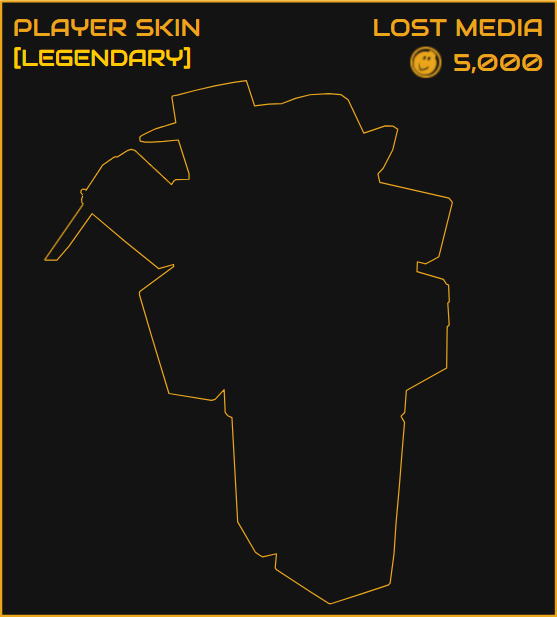
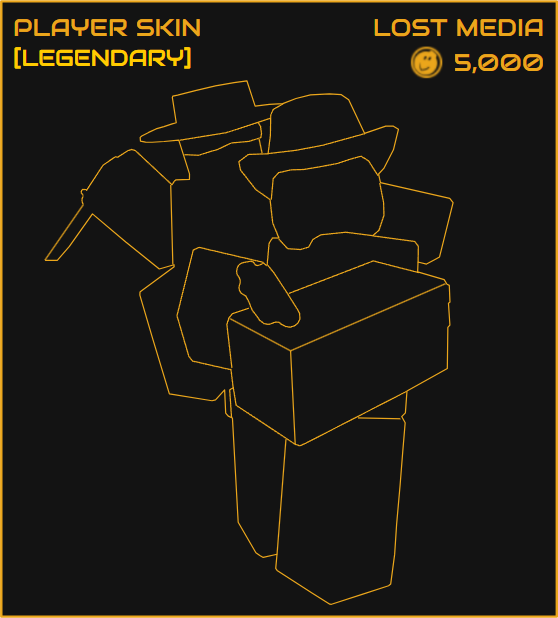
Added stats section
Fixed old bug: Incorrect placeholder shown in shop.js. Added fakePlayerData.json. Updated Lost Media Skin

diff --git a/assets/css/global.css b/assets/css/global.css
@@ -490,6 +490,8 @@ a {
   border: 1px solid #eba61b;
   /* margin: 10px; */
   padding: 10px;
+  width: 250px;
+  height: 100%;
 }
 .uc-avatar {
   border: 1px solid #eba61b;
@@ -535,7 +537,7 @@ a {
 }
 .uc-skin {
   border: 1px solid #eba61b;
-  width: 170px;
+  width: 212px;
   height: 100%;
   margin-top: 5px;
   display: flex;
@@ -549,9 +551,73 @@ a {
 }
 .stats {
   font-family: audiowide, monospace;
-  font-size: 20px;
   border: 1px solid #eba61b;
-  width: 900px;      /* adjust to whatever fits your stat rows */
-  height: 520px;     /* tall enough to hold wins/losses/kills/etc. */
+  width: 700px;
+  padding: 15px;
+  color: #eba61b;
+}
+.stats-header h3 {
+  margin: 0 0 15px 0;
+}
+.stats-top {
+  display: flex;
+  justify-content: flex-end;
+  margin-bottom: 20px;
+}
+.name-entry {
+  display: flex;
+  flex-direction: column;
+  align-items: flex-end;
+  gap: 6px;
+  width: 220px;
+}
+.name-entry label {
+  font-size: 14px;
+}
+.name-entry input {
+  background: transparent;
+  border: 1px solid #eba61b;
+  color: #eba61b;
+  text-align: center;
+  padding: 6px;
+  font-family: inherit;
+  width: 100%;
+}
+.lv-xp {
+  display: flex;
+  align-items: center;
+  gap: 8px;
+  font-size: 12px;
+  width: 100%;
+}
+.xp-bar {
+  flex: 1;
+  height: 6px;
+  background: #333;
+  border: 1px solid #eba61b;
+}
+.xp-fill {
+  height: 100%;
+  background: #eba61b;
+  width: 0%; 
+}
+.stats-grid {
+  display: grid;
+  grid-template-columns: repeat(3, 1fr);
+  gap: 8px;
+  margin-bottom: 10px;
+}
+.stat-box {
+  background: #1e1e1e;
   padding: 10px;
+  display: flex;
+  justify-content: space-between;
+}
+.stat-box.loss span:first-child {
+  color: #e05a5a;
+}
+.stats-divider {
+  border: none;
+  border-top: 1px solid #eba61b;
+  margin: 12px 0;
 }

diff --git a/playerTracker.html b/playerTracker.html
@@ -40,7 +40,64 @@
   </header>
     <div class="tracker-container">
         <div class="stats">
-        </div>
+          <div class="stats-header">
+              <h3>&gt; STATS</h3>
+          </div>
+
+          <div class="stats-top">
+              <div class="name-entry">
+                  <label for="player-name-input">ENTER PLAYER NAME:</label>
+                  <input type="text" id="player-name-input" placeholder="---">
+                  <div class="lv-xp">
+                      <span>LV.</span>
+                      <div class="xp-bar"><div class="xp-fill" id="xp-fill"></div></div>
+                      <span>XP <span id="xp-current"></span>/<span id="xp-max"></span></span>
+                  </div>
+              </div>
+          </div>
+
+          <div class="stats-grid">
+              <div class="stat-box"><span>WINS:</span> <span id="stat-wins"></span></div>
+              <div class="stat-box loss"><span>LOSSES:</span> <span id="stat-losses"></span></div>
+              <div class="stat-box"><span>W/L:</span> <span id="stat-wl"></span></div>
+
+              <div class="stat-box"><span>KILLS:</span> <span id="stat-kills"></span></div>
+              <div class="stat-box loss"><span>DEATHS:</span> <span id="stat-deaths"></span></div>
+              <div class="stat-box"><span>K/D:</span> <span id="stat-kd"></span></div>
+          </div>
+
+          <hr class="stats-divider">
+
+          <div class="stats-grid">
+              <div class="stat-box"><span>ASSISTS:</span> <span id="stat-assists"></span></div>
+              <div class="stat-box"><span>HEADSHOTS:</span> <span id="stat-headshots"></span></div>
+              <div class="stat-box"><span>LONGSHOTS:</span> <span id="stat-longshots"></span></div>
+
+              <div class="stat-box"><span>WALLBANGS:</span> <span id="stat-wallbangs"></span></div>
+              <div class="stat-box"><span>COLLATERALS:</span> <span id="stat-collaterals"></span></div>
+              <div class="stat-box"><span>DAMAGE:</span> <span id="stat-damage"></span></div>
+          </div>
+
+          <hr class="stats-divider">
+
+          <div class="stats-grid">
+              <div class="stat-box"><span>DOMINATIONS:</span> <span id="stat-dominations"></span></div>
+              <div class="stat-box"><span>REVENGES:</span> <span id="stat-revenges"></span></div>
+          </div>
+
+          <hr class="stats-divider">
+
+          <div class="stats-grid">
+              <div class="stat-box"><span>PLANTS:</span> <span id="stat-plants"></span></div>
+              <div class="stat-box"><span>DEFUSALS:</span> <span id="stat-defusals"></span></div>
+          </div>
+
+          <hr class="stats-divider">
+
+          <div class="stats-grid">
+              <div class="stat-box"><span>TIME SPENT:</span> <span id="stat-timespent"></span></div>
+          </div>
+      </div>
         <div class="user-card" id="user-card">
           <div class="uc-avatar">
               <img id="player-avatar" src="/assets/images/unknownuser.png" alt="Unknown User" >

diff --git a/assets/js/playertracker.js b/assets/js/playertracker.js
@@ -76,9 +76,3 @@ function setUserName(name) {
 }
 
 /* user statistics */
-
-// two ways I think i could go about this. 
-// 1: fetch each individual piece, playercard, skin, avatar, name, then stats. 
-// 2: fetch everything and then break it up into pieces.
-// depends on how the api is set up though
-

diff --git a/assets/js/shop.js b/assets/js/shop.js
@@ -28,7 +28,7 @@ function setSkinImage(imgId, skinName) {
 
     function tryLoad() {
         if (i >= extension.length) {
-            img.src = '/playercards/Lost Media.png'; // PLACEHOLDER! MAKE A LOST MEDIA SKIN SIZE!
+            img.src = '/skins/Lost Media Skin.png';
             return;
         }
         img.src = `${basePath}.${extension[i]}`;